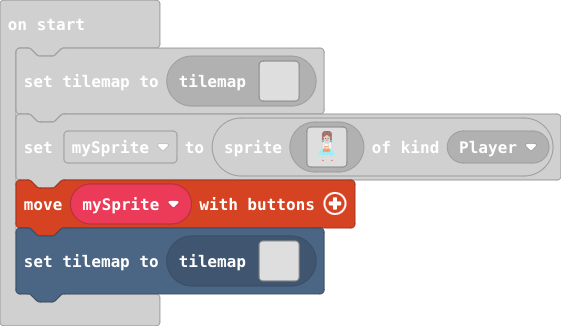
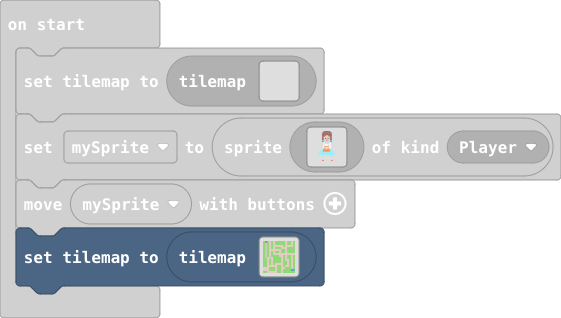
Update main.blocks, tilemap.g.jres, tilemap.g.ts

diff --git a/tilemap.g.ts b/tilemap.g.ts
@@ -24,8 +24,27 @@ namespace myTiles {
 . . . . . . . . . . . . . . . . 
 . . . . . . . . . . . . . . . . 
 `, [myTiles.transparency16], TileScale.Sixteen);
+            case "level3":
+            case "level3":return tiles.createTilemap(hex`1000100000000000000000000000000000000000000000000000000000000000000000000000000000000000000000000000000000000000000000000000000000000000000000000000000000000000000000000000000000000000000000000000000000000000000000000000000000000000000000000000000000000000000000000000000000000000000000000000000000000000000000000000000000000000000000000000000000000000000000000000000000000000000000000000000000000000000000000000000000000000000000000000000000000000000000000000000000000000000000000000000000000000000000000000000000000000`, img`
+. . . . . . . . . . . . . . . . 
+. . . . . . . . . . . . . . . . 
+. . . . . . . . . . . . . . . . 
+. . . . . . . . . . . . . . . . 
+. . . . . . . . . . . . . . . . 
+. . . . . . . . . . . . . . . . 
+. . . . . . . . . . . . . . . . 
+. . . . . . . . . . . . . . . . 
+. . . . . . . . . . . . . . . . 
+. . . . . . . . . . . . . . . . 
+. . . . . . . . . . . . . . . . 
+. . . . . . . . . . . . . . . . 
+. . . . . . . . . . . . . . . . 
+. . . . . . . . . . . . . . . . 
+. . . . . . . . . . . . . . . . 
+. . . . . . . . . . . . . . . . 
+`, [myTiles.transparency16], TileScale.Sixteen);
             case "level2":
-            case "level2":return tiles.createTilemap(hex`1000100001070105010501010101010501010501010301050105010101010105010105010103010501050505050501050505050101030105010501010105050501010101010301050505050505010105010101010103010501050101050101050101010101030105010505050505050505050505010301050101010105050105010105010102050405010101010501050101050101010501050101010105010505010501010105010501010101050101050105010101050105010505050501010501050101010505050505010105010505010501050505010101050101050501010105010505050101010501010501010101060601010505050505010105010101010101`, img`
+            case "level2":return tiles.createTilemap(hex`1000100001080105010501010101010501010501010301050105010101010105010105010103010501050505050501050505050101030105010501010105050501010101010301050505050505010105010101010103010501050101050101050101010101030105010505050505050505050505010301050101010105050105010105010102050405010101010501050101050101010501050101010105010505010501010105010501010101050101050105010101050105010505050501010501050101010505050505010105010505010501050505010101050101050501010105010505050101010501010501010101060701010505050505010105010101010101`, img`
 . . . . . . . . . . . . . . . . 
 . . . . . . . . . . . . . . . . 
 . . . . . . . . . . . . . . . . 
@@ -42,7 +61,7 @@ namespace myTiles {
 . . . . . . . . . . . . . . . . 
 . . . . . . . . . . . . . . . . 
 . . . . . . . . . . . . . . . . 
-`, [myTiles.transparency16,sprites.castle.tileGrass2,sprites.castle.tilePath7,sprites.castle.tilePath4,sprites.castle.tilePath8,sprites.castle.tilePath5,sprites.castle.tileDarkGrass2,sprites.castle.tileDarkGrass1], TileScale.Sixteen);
+`, [myTiles.transparency16,sprites.castle.tileGrass2,sprites.castle.tilePath7,sprites.castle.tilePath4,sprites.castle.tilePath8,sprites.castle.tilePath5,sprites.castle.tileDarkGrass2,sprites.dungeon.collectibleInsignia,sprites.castle.rock0], TileScale.Sixteen);
         }
         return null;
     })
